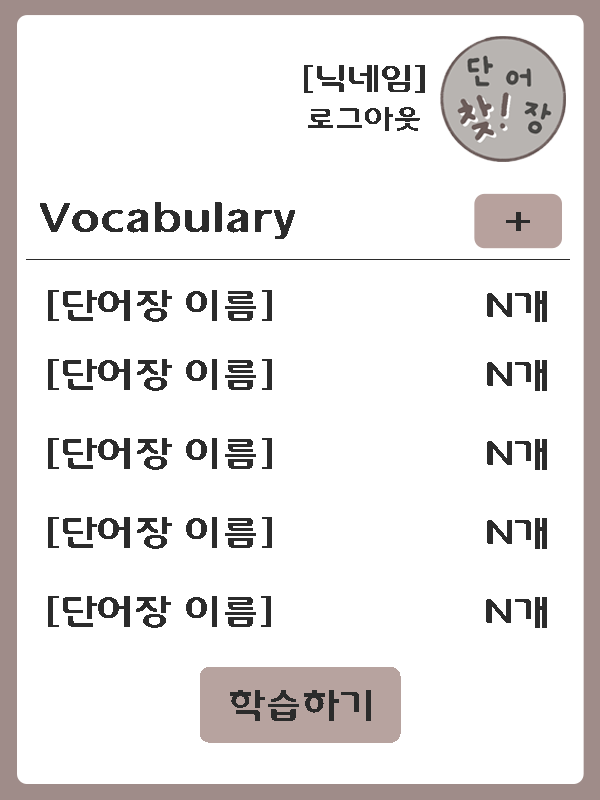
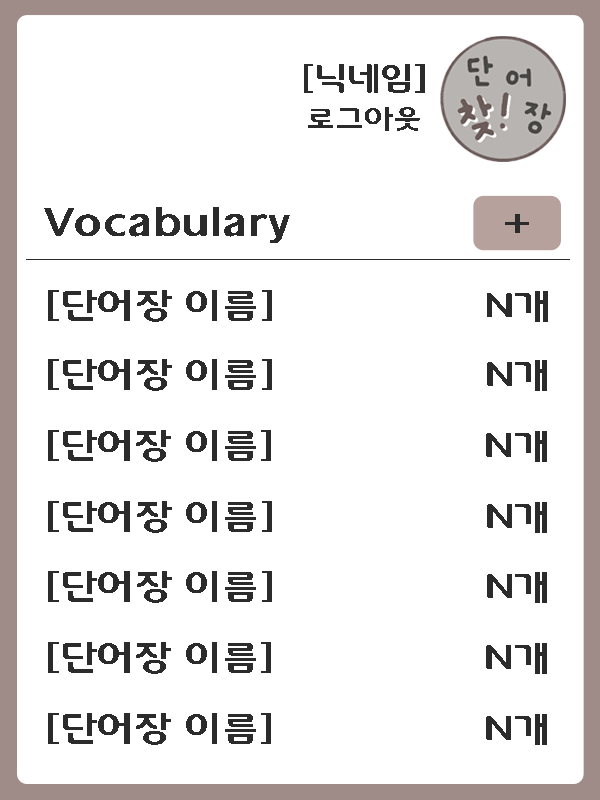
design

diff --git a/findVoca/src/program/activities/LearnerActivity.java b/findVoca/src/program/activities/LearnerActivity.java
@@ -31,8 +31,8 @@ public class LearnerActivity extends JPanel {
         setVisible(true);
 
         // 단어장 정보 불러오기 (임시 데이터 사용)
-        String[] vocaNames = {"영단기 100", "토익 기출", "일본어 회화", "영단기 100", "토익 기출", "일본어 회화", "일본어 회화", "일본어 회화", "일본어 회화"};
-        int[] vocaSizes = {2, 5, 6, 8, 100, 31, 11, 35, 66, 33};
+        String[] vocaNames = {"영단기 100", "토익 기출", "일본어 회화", "영단기 100", "토익 기출", "일본어 회화", "일본어 회화", "토익 기출", "일본어 회화", "영단기 100", "토익 기출",  "일본어 회화", "일본어 회화"};
+        int[] vocaSizes = {2, 5, 6, 8, 100, 31, 11, 35, 66, 33, 25, 33, 56, 47};
 
         nickLabel = cf.createLabel(nickSample, SwingConstants.RIGHT, 295, 62, 127, 31, 34);
         add(nickLabel);
@@ -69,7 +69,7 @@ public class LearnerActivity extends JPanel {
         }
 
         scrollPane = new JScrollPane(vocaList);
-        scrollPane.setBounds(44, 260, 512, 520);
+        scrollPane.setBounds(44, 260, 512, 480);
         scrollPane.setBorder(BorderFactory.createEmptyBorder());
         scrollPane.setVerticalScrollBarPolicy(JScrollPane.VERTICAL_SCROLLBAR_AS_NEEDED);
         scrollPane.setOpaque(false);
